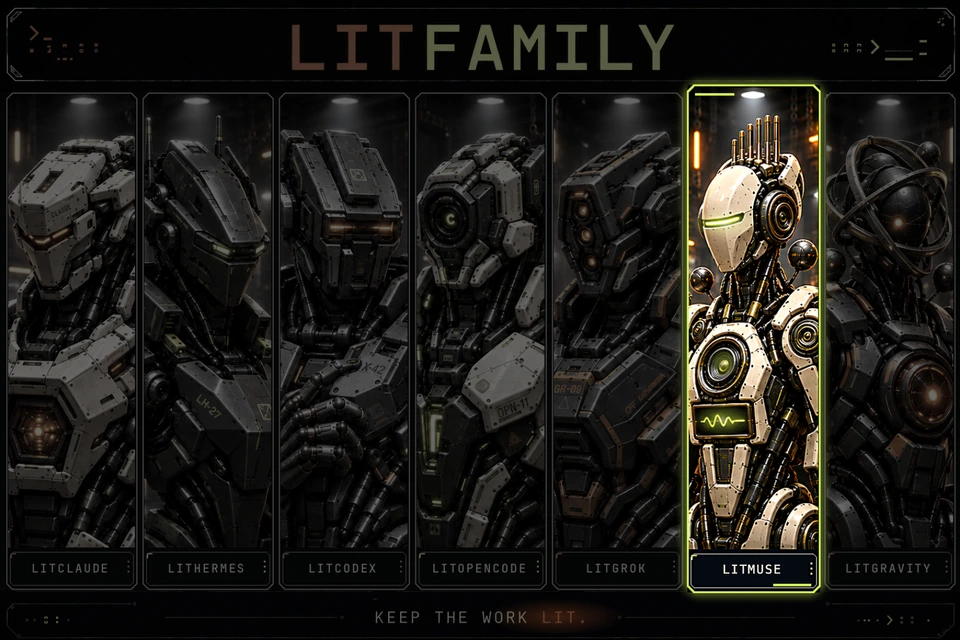
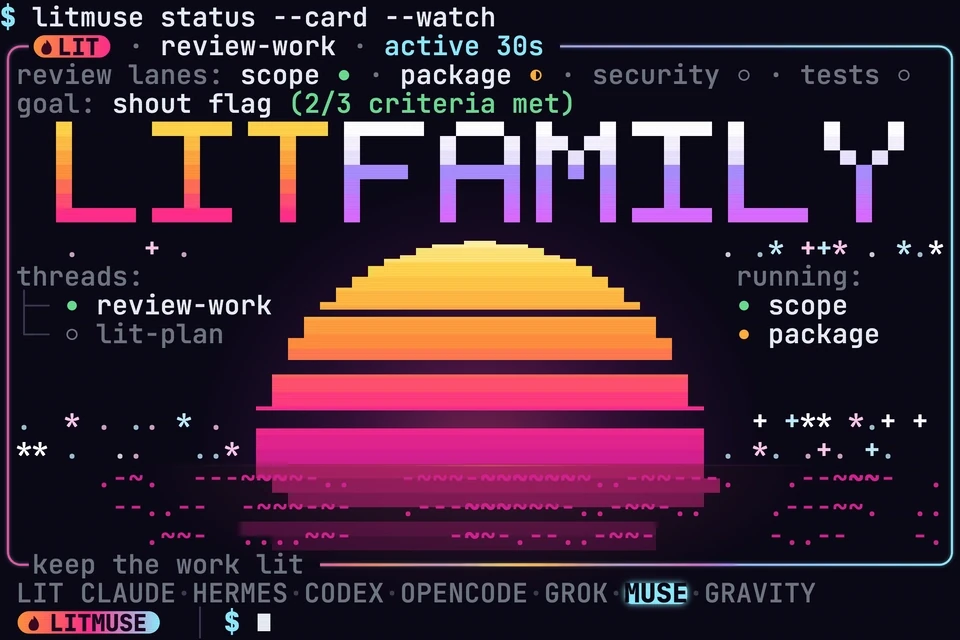
docs(readme): open with the new sunset cover loop

diff --git a/README_ko-KR.md b/README_ko-KR.md
@@ -1,4 +1,4 @@
-<p align="center"><picture><source media="(prefers-reduced-motion: reduce)" srcset="./docs/assets/cover-motion-still.webp" /><img src="./docs/assets/cover-motion.webp" width="100%" alt="LitFamily 모션 커버: 일곱 로봇 패널이 차례로 켜지고, 여섯 번째 칸의 LitMuse 로봇이 라임색 바이저와 테두리를 밝힌 뒤 LITFAMILY와 KEEP THE WORK LIT. 문구가 밝아지는 영상" /></picture></p>
+<p align="center"><picture><source media="(prefers-reduced-motion: reduce)" srcset="./docs/assets/cover-motion-still.webp" /><img src="./docs/assets/cover-motion.webp" width="100%" alt="LitFamily 모션 커버: 노을빛 터미널 화면입니다. 위쪽에는 litmuse status --card --watch 명령과 review-work 경로의 카드가 있고, 가운데는 픽셀 글자 LITFAMILY와 줄무늬 해가 채우며 일곱 제품 이름 줄에서 LITMUSE가 켜지고, 아래에서는 셸 프롬프트가 기다립니다." /></picture></p>
 
 <h1 align="center">LitMuse</h1>
 <p align="center"><strong>Keep the work lit.</strong></p>
@@ -429,7 +429,7 @@ npx @litfamily/litmuse extensions prune-backups --older-than 30 --yes
 
 ## 패밀리
 
-LitMuse는 LitFamily 패키지 일곱 개 가운데 하나이고, 표지의 로봇 일곱이 그 일곱 패키지입니다. 패키지마다 코딩 에이전트 하나에 같은 작업 방식을 들여오며 각자 따로 설치되어 동작하므로, 쓰는 에이전트에 맞는 하나만 설치하면 됩니다.
+LitMuse는 LitFamily 패키지 일곱 개 가운데 하나이고, 표지의 제품 이름 줄이 그 일곱 패키지를 모두 보여 줍니다. 패키지마다 코딩 에이전트 하나에 같은 작업 방식을 들여오며 각자 따로 설치되어 동작하므로, 쓰는 에이전트에 맞는 하나만 설치하면 됩니다.
 
 ## 라이선스
 

diff --git a/README.md b/README.md
@@ -1,4 +1,4 @@
-<p align="center"><picture><source media="(prefers-reduced-motion: reduce)" srcset="./docs/assets/cover-motion-still.webp" /><img src="./docs/assets/cover-motion.webp" width="100%" alt="LitFamily motion cover: seven armored robots power on one by one, the LitMuse robot in the sixth bay wakes with a lime visor and a lit frame, then LITFAMILY and KEEP THE WORK LIT. light up." /></picture></p>
+<p align="center"><picture><source media="(prefers-reduced-motion: reduce)" srcset="./docs/assets/cover-motion-still.webp" /><img src="./docs/assets/cover-motion.webp" width="100%" alt="LitFamily motion cover: a terminal in a sunset look. The command litmuse status --card --watch and its card for a review-work route sit at the top, a pixel LITFAMILY wordmark and a striped half-sunk sun fill the middle with the row of seven product names lighting LITMUSE, and a shell prompt waits at the bottom." /></picture></p>
 
 <h1 align="center">LitMuse</h1>
 <p align="center"><strong>Keep the work lit.</strong></p>
@@ -438,7 +438,7 @@ The installer writes to `~/.local/share/litmuse/` and, through the `muse` CLI, t
 
 ## Family
 
-LitMuse is one of the seven LitFamily packages, and the seven armored robots on the cover stand for them. Each package brings the same way of working to one coding agent and installs and runs on its own, so you only need the one for the agent you use.
+LitMuse is one of the seven LitFamily packages, and the row of product names on the cover lists all seven. Each package brings the same way of working to one coding agent and installs and runs on its own, so you only need the one for the agent you use.
 
 ## License
 

diff --git a/CHANGELOG.md b/CHANGELOG.md
@@ -2,6 +2,7 @@
 
 ## Unreleased
 
+- The README cover is a new loop: a terminal in the sunset look with the watched status card, a pixel LITFAMILY wordmark and a striped half-sunk sun, in place of the seven robot panels. The still for reduced motion is its first frame; the packed files are smaller.
 - The README demo is a new silent loop of one request with the watched status card in its own pane (plan and goal counts, lanes, the celebration line, the sunset), replacing the old still of three commands; the Korean page has its own copy, kept out of the package. The Muse screen around the card is redrawn.
 - At a terminal, `litmuse install`, `update` and `uninstall` draw the plan, the questions, each finished step and the closing summary as cards. A question card names its step, says what Yes does and what No leaves alone, and marks the default: `y` or `n` answers at once, the arrow keys or Tab move, Enter takes the highlight, Esc answers nothing. The questions, their order, their defaults and the stored answers are unchanged, and Ctrl+C still ends with the same message and exit code 1.
 - A failed install shows what went wrong in a red card, with the remedy below it as text you can copy. The `muse plugins approve` lines stay one per line too.
